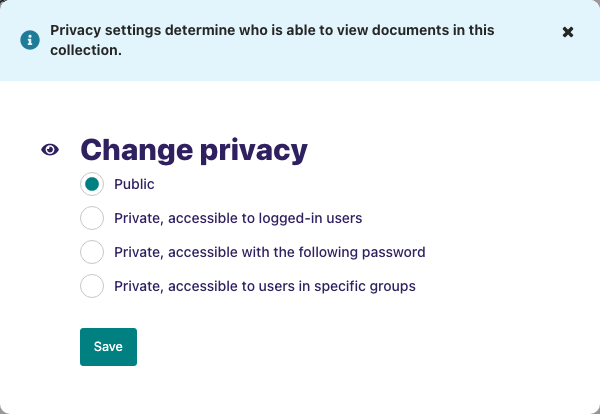
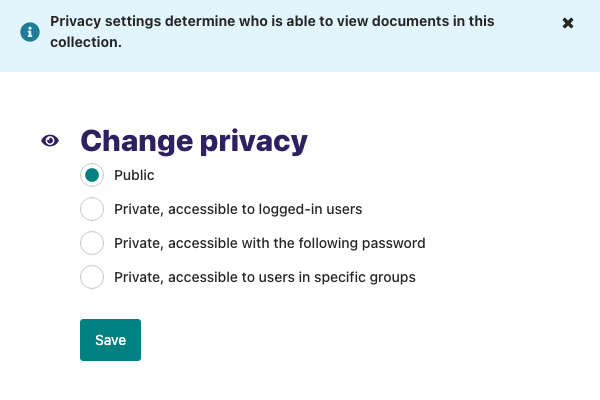
Update non-editor-guide screenshots

diff --git a/docs/releases/4.1.md b/docs/releases/4.1.md
@@ -99,6 +99,7 @@ There are multiple improvements to the documentation theme this release, here ar
  * Add new test assertions to `WagtailPageTestCase` - `assertPageIsRoutable`, `assertPageIsRenderable`, `assertPageIsEditable`, `assertPageIsPreviewable` (Andy Babic)
  * Add documentation to the performance section about how to better create image URLs when not used directly on the page (Jake Howard)
  * Add ability to provide a required `permission` to `PanelGroup`, used by `TabbedInterface`, `ObjectList`, `FieldRowPanel` and `MultiFieldPanel` (Oliver Parker)
+ * Update documentation screenshots of the admin interface to align with changes in this release (Thibaud Colas)
 
 ### Bug fixes
 
